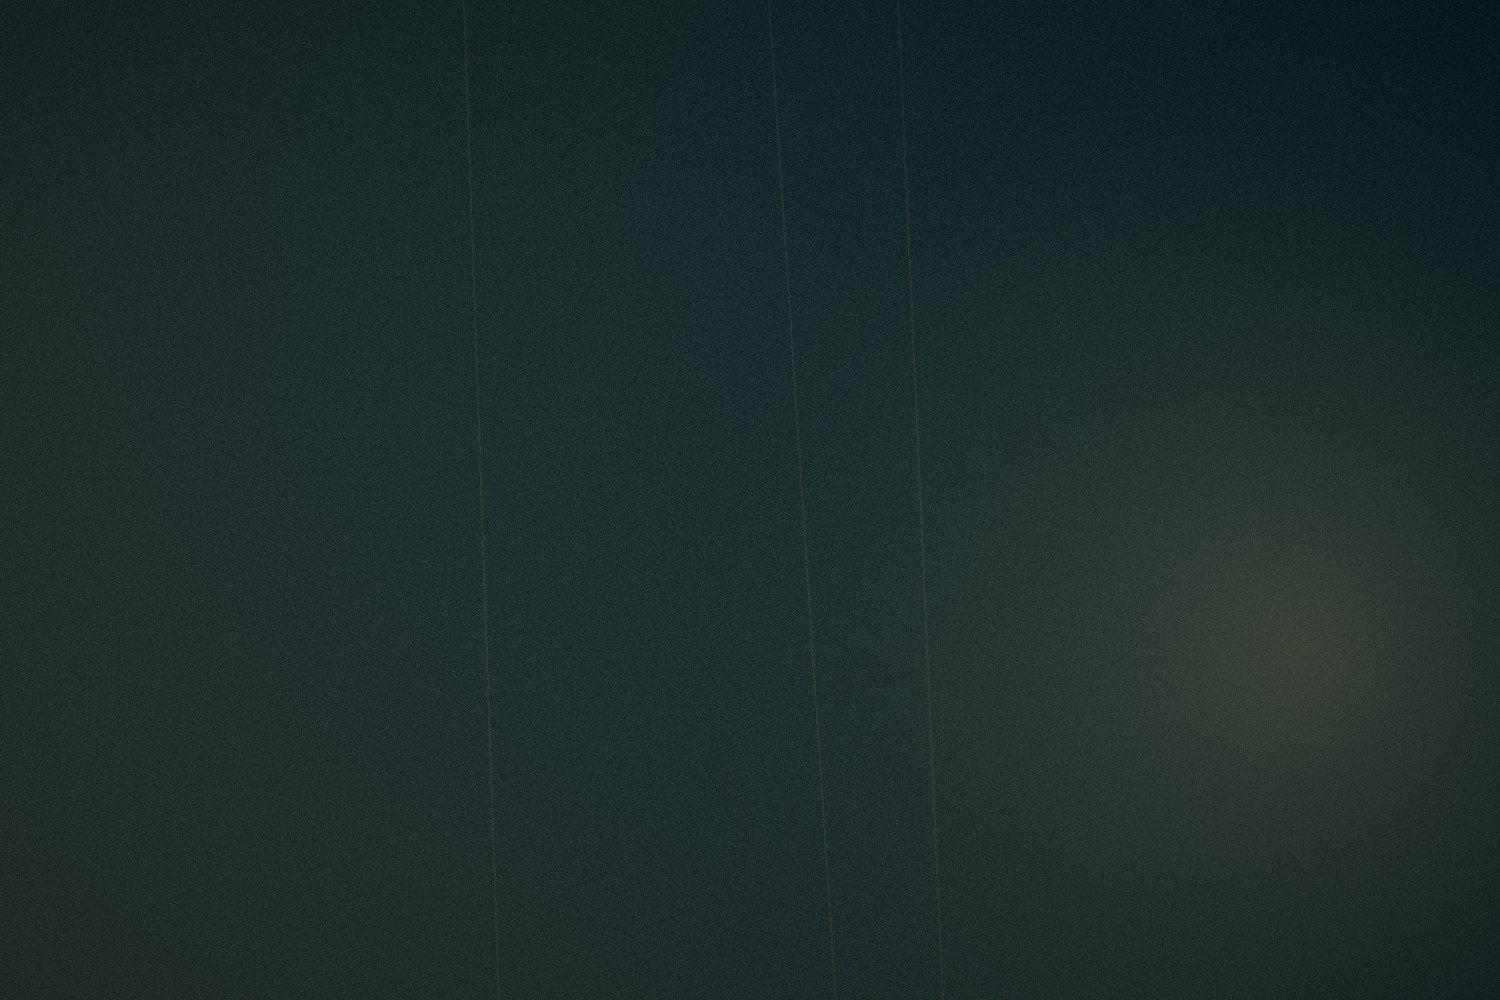
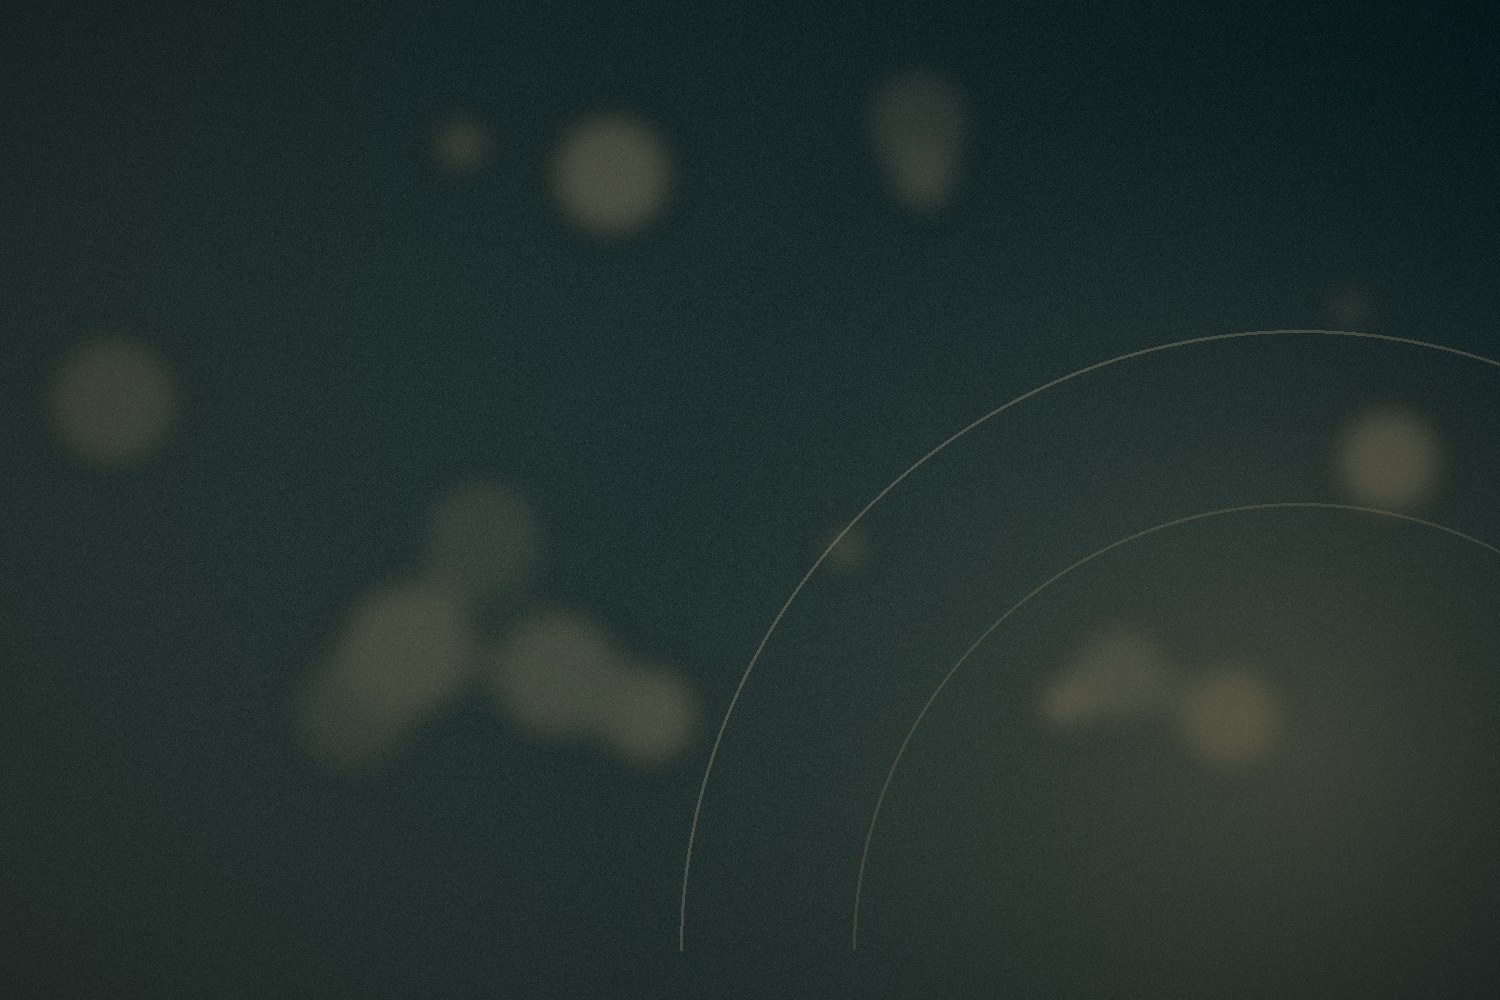
Fix real bugs and weak spots found in a full design audit
- Fix the services-rail scroll-scrub bug: the visual card had outer
  margin while the JS computed each scroll step from the slot's full
  width, so cards drifted out of alignment as you scrolled (visible
  gaps/overlaps by the later cards). Split into an outer full-width
  slot plus an inner .svc-frame that carries the margin/shadow, so
  the JS's per-step distance always matches the slot exactly
- Fix a real mobile bug: the hero CTA button's Hebrew text couldn't
  wrap (white-space:nowrap) and overflowed the viewport by ~78px on
  narrow phones, shifting the whole page. Buttons now wrap and stack
  full-width below 480px
- Feature Bat-Chen's real photo in the hero (both desktop cutout
  treatment and a mobile-adapted version above the headline) instead
  of leaving the hero as text-only on an abstract background
- Regenerate the placeholder imagery (hero, services, testimonials)
  with a much more visible soft bokeh/city-lights treatment - the
  previous version was too subtle and read as broken/empty rather
  than deliberate
- Polish the 'why choose me' icons into gold-ringed circular badges
  instead of flat muted squares

diff --git a/index.html b/index.html
@@ -41,6 +41,9 @@
 <section class="hero" id="top">
   <img class="hero-bg" src="assets/images/hero-bg.jpg" alt="" aria-hidden="true">
   <div class="hero-overlay" aria-hidden="true"></div>
+  <div class="hero-portrait reveal-up d2" aria-hidden="true">
+    <img src="assets/images/batchen-portrait.png" alt="">
+  </div>
   <div class="container">
     <div class="hero-inner">
       <span class="label reveal-down">יועצת משכנתאות ואשראי לעסקים</span>
@@ -106,75 +109,87 @@
       <div class="svc-track" id="svcTrack" dir="ltr">
 
         <a class="svc-card" dir="rtl" href="services/rechisha-lemagurim.html">
-          <img class="svc-bg" src="assets/images/service-1.jpg" alt="">
-          <span class="svc-scrim" aria-hidden="true"></span>
-          <span class="svc-num"><span>01</span></span>
-          <div class="svc-body">
-            <h3>משכנתא לרכישת נכס למגורים</h3>
-            <p>מקבלן, יד שנייה, מחיר למשתכן, משפרי דיור, השקעה, נכס בחו&quot;ל ועוד &ndash; כל דרך לבית משלכם, בליווי אישי מההתחלה ועד הסוף.</p>
-            <span class="svc-more">לכל תתי-השירותים &larr;</span>
+          <div class="svc-frame">
+            <img class="svc-bg" src="assets/images/service-1.jpg" alt="">
+            <span class="svc-scrim" aria-hidden="true"></span>
+            <span class="svc-num"><span>01</span></span>
+            <div class="svc-body">
+              <h3>משכנתא לרכישת נכס למגורים</h3>
+              <p>מקבלן, יד שנייה, מחיר למשתכן, משפרי דיור, השקעה, נכס בחו&quot;ל ועוד &ndash; כל דרך לבית משלכם, בליווי אישי מההתחלה ועד הסוף.</p>
+              <span class="svc-more">לכל תתי-השירותים &larr;</span>
+            </div>
+            <span class="svc-accent" aria-hidden="true"></span>
           </div>
-          <span class="svc-accent" aria-hidden="true"></span>
         </a>
 
         <a class="svc-card" dir="rtl" href="services/lekhol-matara.html">
-          <img class="svc-bg" src="assets/images/service-2.jpg" alt="">
-          <span class="svc-scrim" aria-hidden="true"></span>
-          <span class="svc-num"><span>02</span></span>
-          <div class="svc-body">
-            <h3>משכנתא לכל מטרה</h3>
-            <p>איחוד התחייבויות, סיוע לילדים ברכישת דירה, או כל צורך אחר &ndash; שימוש חכם בשווי הנכס שיש לכם.</p>
-            <span class="svc-more">לכל תתי-השירותים &larr;</span>
+          <div class="svc-frame">
+            <img class="svc-bg" src="assets/images/service-2.jpg" alt="">
+            <span class="svc-scrim" aria-hidden="true"></span>
+            <span class="svc-num"><span>02</span></span>
+            <div class="svc-body">
+              <h3>משכנתא לכל מטרה</h3>
+              <p>איחוד התחייבויות, סיוע לילדים ברכישת דירה, או כל צורך אחר &ndash; שימוש חכם בשווי הנכס שיש לכם.</p>
+              <span class="svc-more">לכל תתי-השירותים &larr;</span>
+            </div>
+            <span class="svc-accent" aria-hidden="true"></span>
           </div>
-          <span class="svc-accent" aria-hidden="true"></span>
         </a>
 
         <a class="svc-card" dir="rtl" href="services/mihzur.html">
-          <img class="svc-bg" src="assets/images/service-3.jpg" alt="">
-          <span class="svc-scrim" aria-hidden="true"></span>
-          <span class="svc-num"><span>03</span></span>
-          <div class="svc-body">
-            <h3>מיחזור משכנתא</h3>
-            <p>מיחזור משכנתא קיימת לתנאים טובים יותר &ndash; ריבית, מסלולים והחזר חודשי שמתאימים לכם היום.</p>
-            <span class="svc-more">לכל תתי-השירותים &larr;</span>
+          <div class="svc-frame">
+            <img class="svc-bg" src="assets/images/service-3.jpg" alt="">
+            <span class="svc-scrim" aria-hidden="true"></span>
+            <span class="svc-num"><span>03</span></span>
+            <div class="svc-body">
+              <h3>מיחזור משכנתא</h3>
+              <p>מיחזור משכנתא קיימת לתנאים טובים יותר &ndash; ריבית, מסלולים והחזר חודשי שמתאימים לכם היום.</p>
+              <span class="svc-more">לכל תתי-השירותים &larr;</span>
+            </div>
+            <span class="svc-accent" aria-hidden="true"></span>
           </div>
-          <span class="svc-accent" aria-hidden="true"></span>
         </a>
 
         <a class="svc-card" dir="rtl" href="services/gil-shlishi.html">
-          <img class="svc-bg" src="assets/images/service-4.jpg" alt="">
-          <span class="svc-scrim" aria-hidden="true"></span>
-          <span class="svc-num"><span>04</span></span>
-          <div class="svc-body">
-            <h3>משכנתא לגיל השלישי</h3>
-            <p>לרכישה או לכל מטרה &ndash; פתרונות מימון המותאמים לצרכים הייחודיים של גיל הזהב.</p>
-            <span class="svc-more">לכל תתי-השירותים &larr;</span>
+          <div class="svc-frame">
+            <img class="svc-bg" src="assets/images/service-4.jpg" alt="">
+            <span class="svc-scrim" aria-hidden="true"></span>
+            <span class="svc-num"><span>04</span></span>
+            <div class="svc-body">
+              <h3>משכנתא לגיל השלישי</h3>
+              <p>לרכישה או לכל מטרה &ndash; פתרונות מימון המותאמים לצרכים הייחודיים של גיל הזהב.</p>
+              <span class="svc-more">לכל תתי-השירותים &larr;</span>
+            </div>
+            <span class="svc-accent" aria-hidden="true"></span>
           </div>
-          <span class="svc-accent" aria-hidden="true"></span>
         </a>
 
         <a class="svc-card" dir="rtl" href="services/asakim.html">
-          <img class="svc-bg" src="assets/images/service-5.jpg" alt="">
-          <span class="svc-scrim" aria-hidden="true"></span>
-          <span class="svc-num"><span>05</span></span>
-          <div class="svc-body">
-            <h3>משכנתא לעסקים ובעלי חברות</h3>
-            <p>רכישת נכס מסחרי, ציוד לעסק, פעילות עסקית או איחוד הלוואות עסקיות ושיפור התזרים &ndash; מימון שעובד בשביל העסק.</p>
-            <span class="svc-more">לכל תתי-השירותים &larr;</span>
+          <div class="svc-frame">
+            <img class="svc-bg" src="assets/images/service-5.jpg" alt="">
+            <span class="svc-scrim" aria-hidden="true"></span>
+            <span class="svc-num"><span>05</span></span>
+            <div class="svc-body">
+              <h3>משכנתא לעסקים ובעלי חברות</h3>
+              <p>רכישת נכס מסחרי, ציוד לעסק, פעילות עסקית או איחוד הלוואות עסקיות ושיפור התזרים &ndash; מימון שעובד בשביל העסק.</p>
+              <span class="svc-more">לכל תתי-השירותים &larr;</span>
+            </div>
+            <span class="svc-accent" aria-hidden="true"></span>
           </div>
-          <span class="svc-accent" aria-hidden="true"></span>
         </a>
 
         <a class="svc-card" dir="rtl" href="services/mesuravim.html">
-          <img class="svc-bg" src="assets/images/service-6.jpg" alt="">
-          <span class="svc-scrim" aria-hidden="true"></span>
-          <span class="svc-num"><span>06</span></span>
-          <div class="svc-body">
-            <h3>פתרונות מימון מורכבים ומסורבי בנקים</h3>
-            <p>דירוג אשראי נמוך, תיקים שנדחו במקום אחר &ndash; פתרון יצירתי בדיוק כשכל הבנקים כבר אמרו &quot;לא&quot;.</p>
-            <span class="svc-more">לכל תתי-השירותים &larr;</span>
+          <div class="svc-frame">
+            <img class="svc-bg" src="assets/images/service-6.jpg" alt="">
+            <span class="svc-scrim" aria-hidden="true"></span>
+            <span class="svc-num"><span>06</span></span>
+            <div class="svc-body">
+              <h3>פתרונות מימון מורכבים ומסורבי בנקים</h3>
+              <p>דירוג אשראי נמוך, תיקים שנדחו במקום אחר &ndash; פתרון יצירתי בדיוק כשכל הבנקים כבר אמרו &quot;לא&quot;.</p>
+              <span class="svc-more">לכל תתי-השירותים &larr;</span>
+            </div>
+            <span class="svc-accent" aria-hidden="true"></span>
           </div>
-          <span class="svc-accent" aria-hidden="true"></span>
         </a>
 
       </div>

diff --git a/assets/css/style.css b/assets/css/style.css
@@ -73,10 +73,14 @@ p{font-size:17px; font-weight:300; line-height:1.75; margin:0;}
 
 /* ---------- Buttons ---------- */
 .btn{
-  display:inline-flex; align-items:center; gap:10px;
+  display:inline-flex; align-items:center; justify-content:center; gap:10px;
   padding:16px 34px; border-radius:9px; font-weight:700; font-size:16px;
-  cursor:pointer; border:1.5px solid transparent; white-space:nowrap;
+  cursor:pointer; border:1.5px solid transparent; white-space:nowrap; max-width:100%;
   transition:background .2s var(--ease), color .2s var(--ease), border-color .2s var(--ease), transform .15s var(--ease);
+}
+@media (max-width:480px){
+  .btn{white-space:normal; text-align:center; padding:14px 22px; font-size:15px;}
+  .hero-ctas{flex-direction:column; align-items:stretch;}
 }
 .btn:hover{transform:translateY(-2px);}
 .btn-primary{background:var(--grad); color:var(--dark);}
@@ -122,6 +126,22 @@ nav.links a:hover{opacity:1; color:var(--gold-light);}
 .hero-overlay{position:absolute; inset:0; background:linear-gradient(100deg, rgba(7,22,25,0.94) 10%, rgba(13,36,41,0.82) 45%, rgba(13,36,41,0.55) 100%);}
 .hero .container{position:relative; z-index:2; width:100%; padding-top:64px; padding-bottom:64px;}
 .hero-inner{max-width:740px;}
+.hero-portrait{position:absolute; z-index:1; bottom:0; left:2%; height:94%; display:flex; align-items:flex-end; pointer-events:none;}
+.hero-portrait::before{
+  content:""; position:absolute; bottom:8%; right:-10%; width:85%; aspect-ratio:1; border-radius:50%;
+  background:radial-gradient(circle, rgba(193,165,117,0.30), rgba(193,165,117,0) 68%);
+}
+.hero-portrait img{position:relative; height:100%; width:auto; filter:drop-shadow(0 30px 40px rgba(0,0,0,0.45));}
+@media (max-width:1180px){ .hero-portrait{height:80%;} }
+@media (max-width:900px){
+  .hero{flex-direction:column; padding-top:36px;}
+  .hero-portrait{
+    position:static; height:auto; margin-bottom:8px; justify-content:center; width:100%;
+  }
+  .hero-portrait::before{right:auto; left:50%; transform:translateX(-50%); bottom:0;}
+  .hero-portrait img{height:280px;}
+}
+@media (max-width:480px){ .hero-portrait img{height:220px;} }
 .hero h1{color:var(--white); margin-top:16px;}
 .hero h1 em{font-style:normal; background:var(--grad); -webkit-background-clip:text; background-clip:text; color:transparent;}
 .hero p{color:var(--muted-on-dark); font-size:19.5px; margin-top:22px; max-width:600px;}
@@ -177,11 +197,18 @@ nav.links a:hover{opacity:1; color:var(--gold-light);}
 @media (min-width:768px){ .svc-track{height:78vh; will-change:transform;} }
 @media (max-width:767px){ .svc-track{flex-direction:column; gap:20px; padding:20px 20px 8px;} }
 .svc-card{
-  display:block; position:relative; flex:0 0 100%; border-radius:22px; overflow:hidden;
-  box-shadow:0 20px 50px rgba(0,0,0,0.35); color:#fff;
+  display:block; position:relative; flex:0 0 100%; color:#fff;
 }
-@media (min-width:768px){ .svc-card{margin:0 4vw;} }
 @media (max-width:767px){ .svc-card{flex:none; min-height:400px;} }
+/* .svc-frame is the visual card (inset from the slot edges on desktop so the
+   pitch the JS computes — one slot = 100% of the sticky viewport — stays
+   exact; the inset only affects what's drawn, never the slot's own width). */
+.svc-frame{
+  position:relative; height:100%; border-radius:22px; overflow:hidden;
+  box-shadow:0 20px 50px rgba(0,0,0,0.35);
+}
+@media (min-width:768px){ .svc-frame{margin:0 4vw;} }
+@media (max-width:767px){ .svc-frame{position:absolute; inset:0; height:auto;} }
 .svc-bg{position:absolute; inset:0; width:100%; height:100%; object-fit:cover; transition:transform .7s var(--ease);}
 .svc-card:hover .svc-bg{transform:scale(1.05);}
 .svc-scrim{position:absolute; inset:0; background:linear-gradient(to top, rgba(7,22,25,0.94) 0%, rgba(7,22,25,0.55) 40%, rgba(7,22,25,0.08) 100%);}
@@ -208,7 +235,11 @@ nav.links a:hover{opacity:1; color:var(--gold-light);}
 .reasons{display:grid; gap:32px; grid-template-columns:repeat(4,1fr); margin-top:8px;}
 @media (max-width:960px){ .reasons{grid-template-columns:repeat(2,1fr);} }
 @media (max-width:560px){ .reasons{grid-template-columns:1fr;} }
-.reason .r-icon{width:44px; height:44px; border-radius:10px; background:rgba(193,165,117,0.14); display:flex; align-items:center; justify-content:center; color:var(--gold-light); margin-bottom:16px;}
+.reason .r-icon{
+  width:52px; height:52px; border-radius:50%; background:rgba(193,165,117,0.10);
+  border:1.5px solid rgba(193,165,117,0.4); display:flex; align-items:center; justify-content:center;
+  color:var(--gold-light); margin-bottom:18px; box-shadow:0 6px 16px rgba(0,0,0,0.2);
+}
 .reason h4{color:var(--white);}
 .reason p{color:var(--muted-on-dark); font-size:15px; margin-top:8px;}
 
